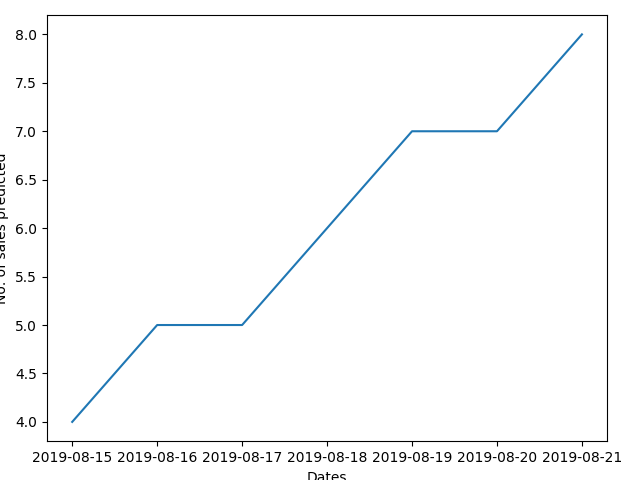
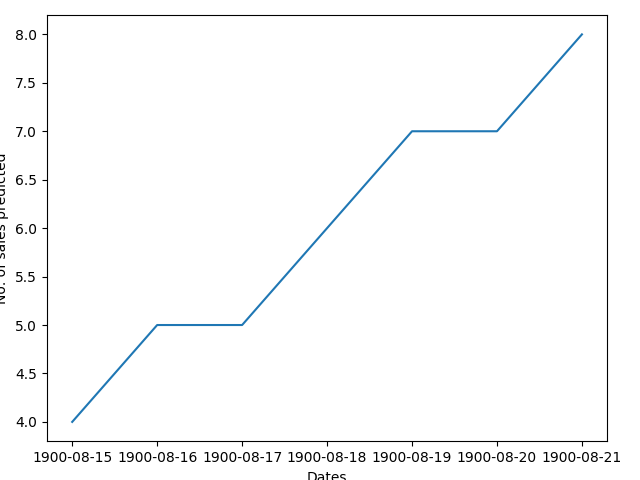
Fixed msg in index

diff --git a/templates/layout.html b/templates/layout.html
@@ -26,7 +26,8 @@
         {% if session.get('empid')  and session['manager'] == True %}
       <li><a href="{{ url_for('manager_add_item') }}">Add New Items</a></li>
       <li><a href="{{ url_for('employee_add') }}">Add Employee</a></li>
-      {% endif %}
+      <li><a href="{{ url_for('predict') }}">Predict Sales</a></li>
+       {% endif %}
       <li><a href="{{ url_for('login') }}">Login</a></li>
       <li><a href="{{ url_for('logout') }}">Logout</a></li>
     </ul>

diff --git a/api.py b/api.py
@@ -9,6 +9,7 @@ from matplotlib.figure import Figure
 from matplotlib.backends.backend_agg import FigureCanvasAgg as FigureCanvas
 import time
 import io
+import calendar
 
 app = Flask(__name__)
 db = MySQL(app)
@@ -56,19 +57,19 @@ def login():
 #Index page for employee
 @app.route('/index',methods=['GET','POST'])
 def index():
+	if session.get('empid') is None:
+		return render_template('land.html', msg = 'Please Login as an Employee')
+	cur = db.connection.cursor(MySQLdb.cursors.DictCursor)
+	query = "SELECT * FROM  INVENTORY WHERE ShopID = " + str(session['shopid'])
+	cur.execute(query)
+	items = cur.fetchall()
+	query = "SELECT * FROM ITEMS"
+	cur.execute(query)
+	item_det = cur.fetchall()
+	item_names = {}
+	for x in item_det:
+		item_names[x['ItemID']] = x['Name']
 	if request.method=='GET':
-		if session.get('empid') is None:
-			return render_template('land.html', msg = 'Please Login as an Employee')
-		cur = db.connection.cursor(MySQLdb.cursors.DictCursor)
-		query = "SELECT * FROM  INVENTORY WHERE ShopID = " + str(session['shopid'])
-		cur.execute(query)
-		items = cur.fetchall()
-		query = "SELECT * FROM ITEMS"
-		cur.execute(query)
-		item_det = cur.fetchall()
-		item_names = {}
-		for x in item_det:
-			item_names[x['ItemID']] = x['Name']
 		return render_template('index.html', items = items, item_names = item_names)
 	if request.method=='POST':
 		item_id = request.form.get("item_id")
@@ -78,9 +79,8 @@ def index():
 		cur.execute(query)
 		old_value = cur.fetchone()['Units']
 		new_value = int(old_value) - int(item_quantity)
-		# Amodh if new_value<0
 		if new_value < 0:
-			return redirect(url_for('index'))
+			return render_template('index.html', items = items, item_names=item_names, msg = "Not enough items in inventory!")
 		query = "UPDATE INVENTORY SET Units = " + str(new_value) + " WHERE ShopID = " + str(session['shopid']) + " AND ItemID = " +str(item_id)
 		cur.execute(query)
 		query = "INSERT INTO SALES VALUES(" + str(session['shopid']) + "," + str(item_id) + "," + str(item_quantity) + ",CURRENT_TIME())" 
@@ -153,52 +153,11 @@ def logout():
 	
 
 
-# #creating a new item
-# @app.route('/items/new')
-# pass
 
-# #modifying item details
-# @app.route('/items/modify')
-# pass
 
-# #adding a sale
-# @app.route('/inventory/sell')
-# pass
-
-# #adding items to the inventory
-# @app.route('/inventory/store')
-# pass
-
-# #removing items from the inventory for unknown reasons
-# @app.route('inventory/items/remove')
-# pass
-
-# #adding inventory to store
-# @app.route('/inventory/add')
-# pass
-
-# #remove items from inventory
-# @app.route('/inventory/remove')
-# pass
-
-# #delete inventory as a whole
-# @app.route('/inventory/delete')
-# pass
-
-# #add a new store
-# @app.route('/store/add')
-# pass
-
-# #remove a store
-# @app.route('/store/remove')
-# pass
-
-# #modify the store details
-# @app.route('/store/modify')
-# pass
-
-@app.route('/predict/<shopid>',methods=['GET'])
-def predict(shopid):
+@app.route('/predict',methods=['GET'])
+def predict():
+	shopid=str(session['shopid'])
 	cur = db.connection.cursor(MySQLdb.cursors.DictCursor)
 	cur.execute('SELECT ItemID,Quantity,SaleDate FROM SALES WHERE ShopID='+shopid+';')
 	l = cur.fetchall()
@@ -239,9 +198,11 @@ def predict(shopid):
 	
 	x = list(prediction.index)
 	for i in range(len(x)):
-		x[i] = datetime.strptime(x[i][:10],'%Y-%m-%d')
+		x[i] = datetime.strptime(x[i][5:10],'%m-%d')
+		# x[i] = calendar.day_name(datetime.strptime(x[i][:10],"%Y-%m-%d"))
 	y = prediction['y']
 
+	print(type(x[0]))
 	plt.plot(x,y)
 	plt.tight_layout()
 	plt.xlabel('Dates')
